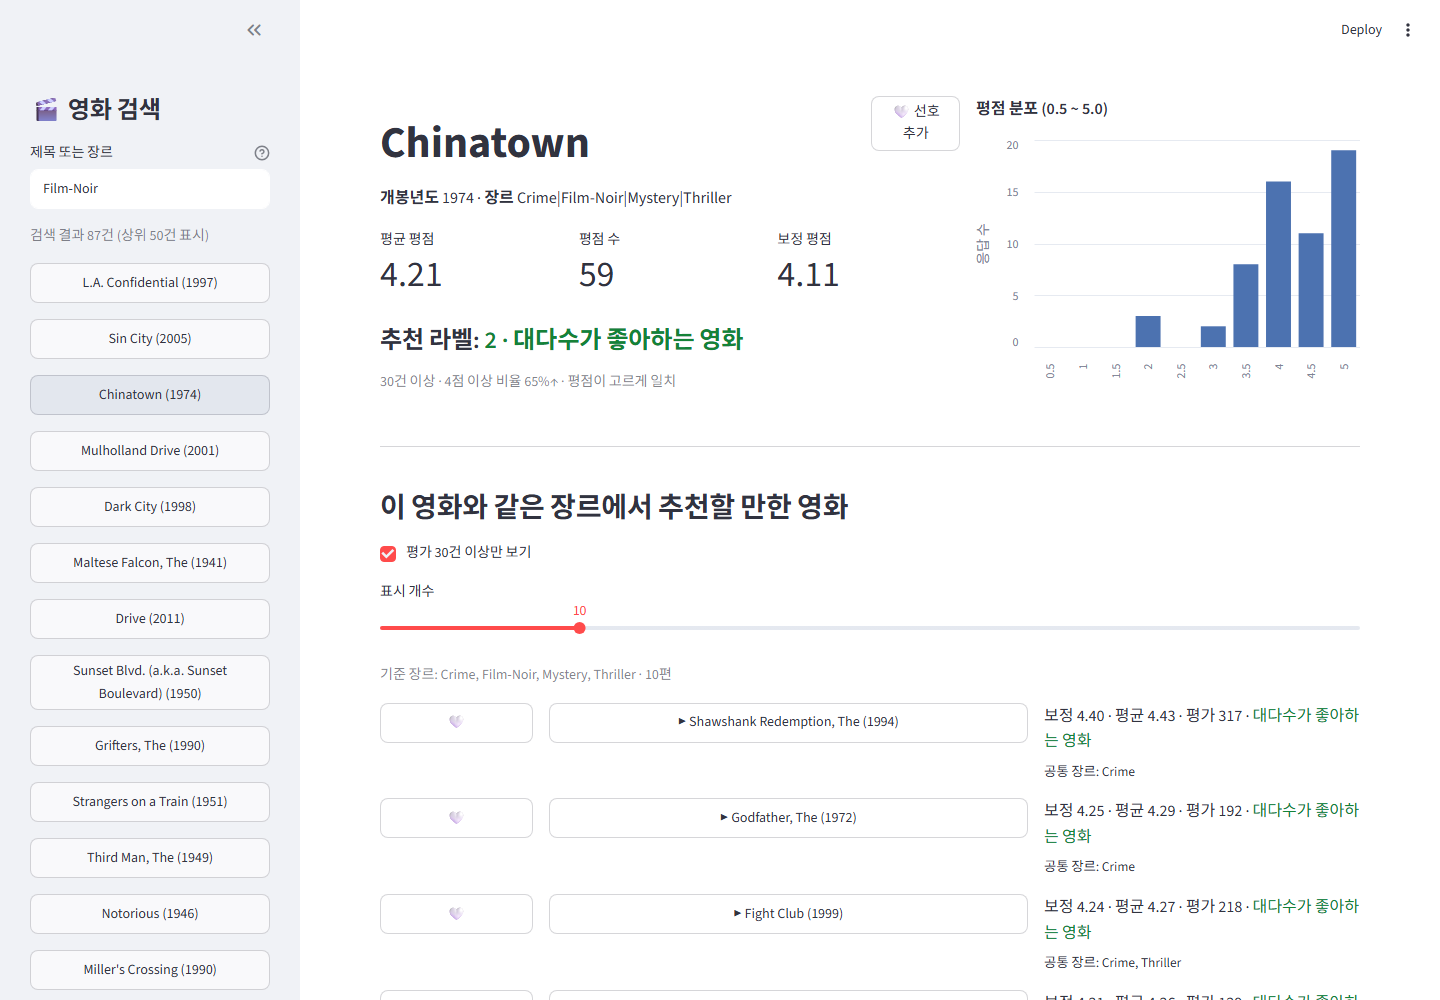
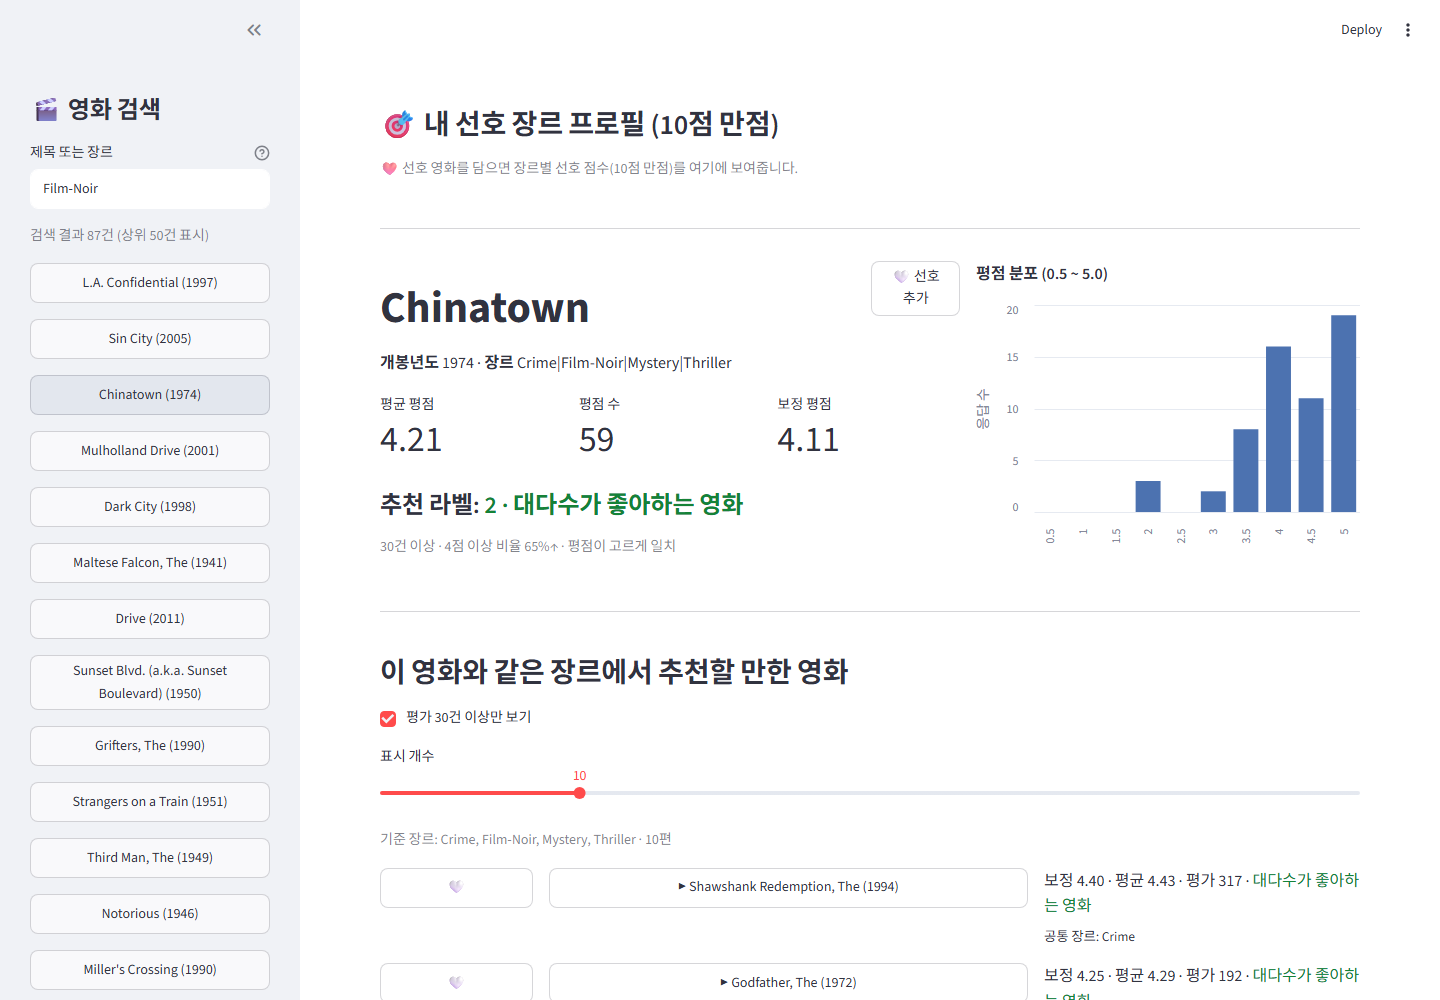
선호 장르 프로필을 10점 만점으로 점수화해 화면 최상단에 시각화
- streamlit_app.py: render_profile_score() 추가 — 선호 장르 프로필(비율 0~1)을
  x10 해 장르별 10점 만점 점수로 환산, st.bar_chart 로 페이지 맨 위에 항상 표시
  (첫 화면/상세 화면 공통, render_profile_section()의 중복 캡션은 제거)
- analysis/capture_dashboard.py: app_07_profile_score.png 캡처 추가
- README.md: 8-7 섹션 추가

diff --git a/streamlit_app.py b/streamlit_app.py
@@ -11,6 +11,8 @@ data/processed/ 산출물을 바탕으로
      앱을 재시작해도 유지된다 (로컬 실행 전제; 이 파일은 git에는 올리지 않는다)
   6) 선호 영화가 여러 편이면, 그 영화들의 장르 원-핫 벡터를 합산한 뒤 선호 영화 수로
      나눈 "선호 장르 프로필" 벡터를 만들어 별도로 추천 ("내 선호 영화 프로필 기반 추천")
+  7) 그 프로필을 장르별 10점 만점 점수(장르 비율 × 10)로 바꿔 막대그래프로
+     화면 맨 위에 항상 표시 ("내 선호 장르 프로필 (10점 만점)")
 
 실행: 프로젝트 루트에서
     streamlit run streamlit_app.py
@@ -215,6 +217,39 @@ def render_movie_row(row: pd.Series, key_prefix: str) -> None:
     col_info.markdown(line, unsafe_allow_html=True)
 
 
+def render_profile_score() -> None:
+    """선호 장르 프로필을 10점 만점 점수로 바꿔 화면 최상단에 시각화."""
+    st.subheader("🎯 내 선호 장르 프로필 (10점 만점)")
+    fav_ids = st.session_state.favorites
+
+    if not fav_ids:
+        st.caption("❤ 선호 영화를 담으면 장르별 선호 점수(10점 만점)를 여기에 보여줍니다.")
+        return
+    if genre_matrix is None:
+        st.info(f"`{GENRE_ONEHOT_CSV.relative_to(ROOT)}` 가 없습니다. `python run_all.py` 로 생성하세요.")
+        return
+
+    profile = build_favorite_profile(fav_ids, genre_matrix)
+    if profile is None:
+        st.info("선호한 영화들에 장르 정보가 없어 프로필을 만들 수 없습니다.")
+        return
+
+    # 프로필 값(0~1, 그 장르를 가진 선호작의 비율)을 10점 만점으로 환산
+    scores = (pd.Series(profile, index=genre_matrix.columns) * 10).round(1)
+    scores = scores[scores > 0].sort_values(ascending=False)
+    if scores.empty:
+        st.info("선호한 영화들에 장르 정보가 없어 점수를 계산할 수 없습니다.")
+        return
+
+    chart_df = pd.DataFrame({"점수": scores.to_numpy()}, index=pd.Index(scores.index, name="장르"))
+    st.bar_chart(chart_df, y="점수", color="#E4572E", height=260)
+    st.caption(
+        f"선호 영화 {len(fav_ids)}편 기준 · 장르별 (선호작 중 그 장르 비율) × 10점 "
+        f"— 10.0 = 선호작 전부가 이 장르, 5.0 = 절반. 최고점: "
+        + ", ".join(f"{g} {v:.1f}점" for g, v in scores.head(3).items())
+    )
+
+
 def render_profile_section() -> None:
     """선호 영화들의 평균 장르 벡터(프로필)로 만드는 추천 — 어느 화면에서든 표시."""
     fav_ids = st.session_state.favorites
@@ -235,13 +270,6 @@ def render_profile_section() -> None:
     if sims is None:
         st.info("선호한 영화들에 장르 정보가 없어 프로필을 만들 수 없습니다.")
         return
-
-    prof = pd.Series(profile, index=genre_matrix.columns)
-    prof = prof[prof > 0].sort_values(ascending=False)
-    st.caption(
-        f"선호 영화 {len(fav_ids)}편의 장르 평균(비율): "
-        + ", ".join(f"{g} {v:.0%}" for g, v in prof.items())
-    )
 
     sims = sims.drop(index=[i for i in fav_ids if i in sims.index], errors="ignore")
     sims = sims[sims > 0]  # 겹치는 장르가 하나도 없거나 장르 정보 없는 영화 제외
@@ -316,6 +344,9 @@ else:
 
 
 # ----------------------------- 본문 -----------------------------
+render_profile_score()
+st.markdown("---")
+
 mid = st.session_state.movie_id
 
 if mid is None or mid not in set(movies["movieId"]):

diff --git a/analysis/capture_dashboard.py b/analysis/capture_dashboard.py
@@ -92,6 +92,12 @@ def main() -> None:
             page.screenshot(path=OUT / "app_06_profile.png")
             print("  ", OUT / "app_06_profile.png")
 
+            # 내 선호 장르 프로필 (10점 만점) — 화면 최상단 시각화
+            page.get_by_text("내 선호 장르 프로필 (10점 만점)").scroll_into_view_if_needed()
+            wait_idle(page, 1000)
+            page.screenshot(path=OUT / "app_07_profile_score.png")
+            print("  ", OUT / "app_07_profile_score.png")
+
             browser.close()
     finally:
         srv.terminate()

diff --git a/README.md b/README.md
@@ -301,6 +301,7 @@ Drama·Comedy·Action은 물량이 많지만 평균 보정평점은 중간, Film
 ## 8. 대시보드 — 영화 추천 탐색기 (`streamlit_app.py`)
 
 `streamlit run streamlit_app.py` 로 실행. 왼쪽에서 검색 → 영화 선택 → 상세와 추천을 본다.
+페이지 맨 위에는 선호 장르를 10점 만점으로 점수화한 그래프(8-7)가 항상 떠 있다.
 
 ### 8-1. 제목·장르 검색
 ![대시보드 검색](outputs/screenshots/app_01_search.png)
@@ -368,6 +369,16 @@ Shawshank Redemption · Godfather · Fight Club 순으로 추천된다.
   프로필은 `Crime 100%, Drama/Film-Noir/Mystery/Thriller 각 50%`가 되고, 이 조합과 가장 가까운
   `Mulholland Drive`(Crime·Drama·Mystery·Thriller, 유사도 0.949)가 1위로 추천된다.
 - 선호 영화 0편이면 프로필을 만들 수 없다는 안내만 표시한다.
+
+### 8-7. 내 선호 장르 프로필 (10점 만점) — 화면 최상단
+![대시보드 프로필 점수](outputs/screenshots/app_07_profile_score.png)
+8-6의 프로필 벡터(장르별 0~1 비율)를 **10점 만점 점수(비율 × 10)** 로 바꿔 막대그래프로 보여준다.
+어떤 화면에 있든(첫 화면이든 특정 영화 상세든) **페이지 맨 위에 항상 고정 표시**된다.
+
+- 점수 = (그 장르를 가진 선호작 수 ÷ 선호 영화 수) × 10. 10.0 = 선호작 전부가 그 장르, 5.0 = 절반.
+- 예: `Chinatown`(Crime·Film-Noir·Mystery·Thriller) + `Shawshank Redemption`(Crime·Drama) 선호 시
+  `Crime 10.0점`, `Drama·Film-Noir·Mystery·Thriller 각 5.0점`.
+- 선호 영화가 없으면 담아보라는 안내만 표시하고 차트는 그리지 않는다.
 
 ---
 
